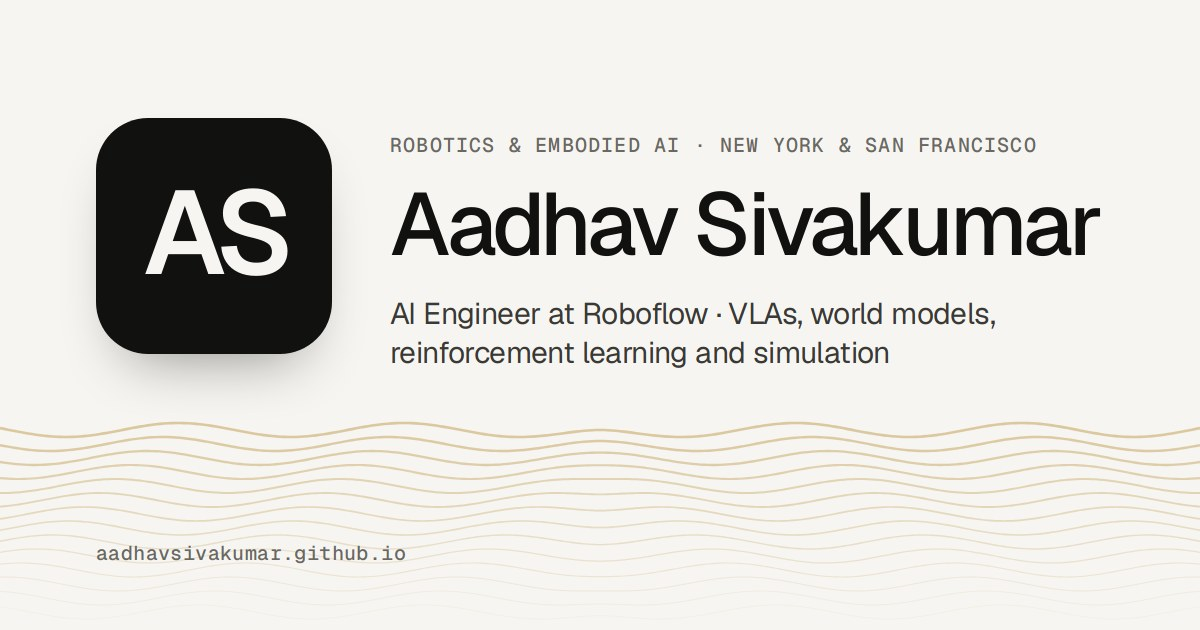
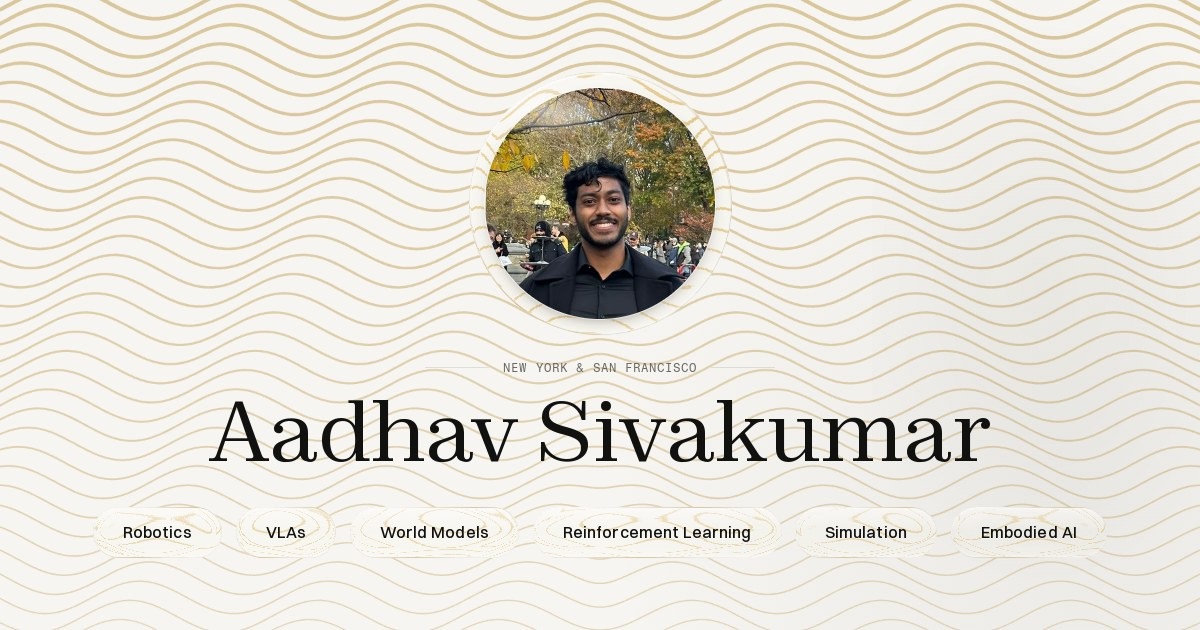
Share image: the site's own hero, no Roboflow
The link preview (Media/web/og.jpg) was a separate card in the old fonts,
with a big AS mark and "AI Engineer at Roboflow". It is now the hero itself
photographed at 1200x630 by scripts/og-image.mjs: the gold sine field, the
portrait in its glass bubble, the name in Zodiak and the glass chips, light
theme, navbar hidden. The og/twitter descriptions drop Roboflow too, the
alt text describes the new image, and the image URLs carry ?v=2 so the
platforms fetch it again.

Claude-Session: https://claude.ai/code/session_01Y7j2gaE5ohG1smBg9ttd1C

diff --git a/index.html b/index.html
@@ -28,21 +28,22 @@
     <meta property="og:site_name" content="Aadhav Sivakumar">
     <meta property="og:url" content="https://aadhav.dev/">
     <meta property="og:title" content="Aadhav Sivakumar — Robotics &amp; Embodied AI Engineer">
-    <meta property="og:description" content="Robotics engineer working on embodied AI — VLAs, world models, reinforcement learning and simulation. AI Engineer at Roboflow; MS Mechatronics &amp; Robotics, NYU Tandon. New York &amp; San Francisco.">
+    <meta property="og:description" content="Robotics engineer working on embodied AI — VLAs, world models, reinforcement learning and simulation. MS Mechatronics &amp; Robotics, NYU Tandon. New York &amp; San Francisco.">
     <!-- 1200x630 JPG (Media/web/og.jpg): a WebP preview does not show on
-         LinkedIn or Slack. Rendered from a small HTML page — the AS mark,
-         the name, the role, the gold waves. -->
-    <meta property="og:image" content="https://aadhav.dev/Media/web/og.jpg">
+         LinkedIn or Slack. It is the site's own hero, photographed by
+         scripts/og-image.mjs. Bump ?v= when it changes: the platforms cache
+         a preview by its URL. -->
+    <meta property="og:image" content="https://aadhav.dev/Media/web/og.jpg?v=2">
     <meta property="og:image:type" content="image/jpeg">
     <meta property="og:image:width" content="1200">
     <meta property="og:image:height" content="630">
-    <meta property="og:image:alt" content="AS — Aadhav Sivakumar, Robotics &amp; Embodied AI Engineer">
+    <meta property="og:image:alt" content="Aadhav Sivakumar, portrait over gold sine waves, with Robotics, VLAs, World Models, Reinforcement Learning, Simulation and Embodied AI">
 
     <meta name="twitter:card" content="summary_large_image">
     <meta name="twitter:title" content="Aadhav Sivakumar — Robotics &amp; Embodied AI Engineer">
-    <meta name="twitter:description" content="Robotics engineer working on embodied AI — VLAs, world models, reinforcement learning and simulation. AI Engineer at Roboflow; MS Mechatronics &amp; Robotics, NYU Tandon. New York &amp; San Francisco.">
-    <meta name="twitter:image" content="https://aadhav.dev/Media/web/og.jpg">
-    <meta name="twitter:image:alt" content="AS — Aadhav Sivakumar, Robotics &amp; Embodied AI Engineer">
+    <meta name="twitter:description" content="Robotics engineer working on embodied AI — VLAs, world models, reinforcement learning and simulation. MS Mechatronics &amp; Robotics, NYU Tandon. New York &amp; San Francisco.">
+    <meta name="twitter:image" content="https://aadhav.dev/Media/web/og.jpg?v=2">
+    <meta name="twitter:image:alt" content="Aadhav Sivakumar, portrait over gold sine waves, with Robotics, VLAs, World Models, Reinforcement Learning, Simulation and Embodied AI">
 
     <!-- Structured data so a search result can carry the role, employer,
          degrees and profile links as a rich snippet. Every value here is a

diff --git a/CLAUDE.md b/CLAUDE.md
@@ -1707,9 +1707,16 @@ profiles (`SOCIALS` in Header.jsx: LinkedIn, GitHub, email, X, Instagram — the
 as 17px line icons beside the theme toggle; on a phone the profiles sit at
 the header bar beside the burger since Oct 8 (`.socials--bar`; they were at the bottom of the menu panel, `.socials--menu`, now hidden) and the toggle and burger
 sit right. The link preview is `Media/web/og.jpg` (1200x630 JPG — WebP does
-not unfurl on LinkedIn or Slack): the big AS mark, name, role, the gold
-waves, rendered from an HTML page with Playwright; og/twitter image, type,
-size and alt are set. Roboflow stays in the PRESENT tense everywhere (the
+not unfurl on LinkedIn or Slack); og/twitter image, type, size and alt are
+set. **Since Oct 14 it is the site's own HERO, photographed**
+(`scripts/og-image.mjs`: 1200x630, light theme, navbar and scroll cue
+hidden, rendered at 2x and saved at 1x; the owner: "have it reflect the
+theme of the actual site better, and don't have it mention roboflow"). It
+was a separate card (a big AS mark, the old fonts, "AI Engineer at
+Roboflow"), and the og/twitter DESCRIPTIONS no longer name Roboflow either;
+the search `description` and the JSON-LD still do. Re-run it after the hero
+changes and bump the `?v=` on the image URLs, or the platforms keep their
+cached copy. Roboflow stays in the PRESENT tense everywhere (the
 owner). Hero chips: Robotics first, Embodied AI last.
 
 **Oct 6, projects consolidated (the owner).** The tactile sensor's card is
@@ -1963,9 +1970,8 @@ Indian Type Foundry's Fontshare (ITF Free Font License) and FRAGMENT MONO
 Fonts request any more. Gotcha found doing it: Fontshare's CSS API with
 several families in one request registered only the first in Playwright;
 download the woff2 files instead. Switzer's word space is narrow, so body
-text has neutral tracking and `word-spacing: 0.05em`. Still in the OLD
-fonts: `Media/web/og.jpg` (the Manim clips moved to Fragment Mono the same
-day).
+text has neutral tracking and `word-spacing: 0.05em`. (The Manim clips
+moved to Fragment Mono the same day; `Media/web/og.jpg` caught up on Oct 14.)
 
 **Oct 6.** (1) UCSC's role reads "Undergraduate Research Assistant · TML"
 (as NYU's carries "· LAIR"). (2) TAGS are small glass pills in the hero
